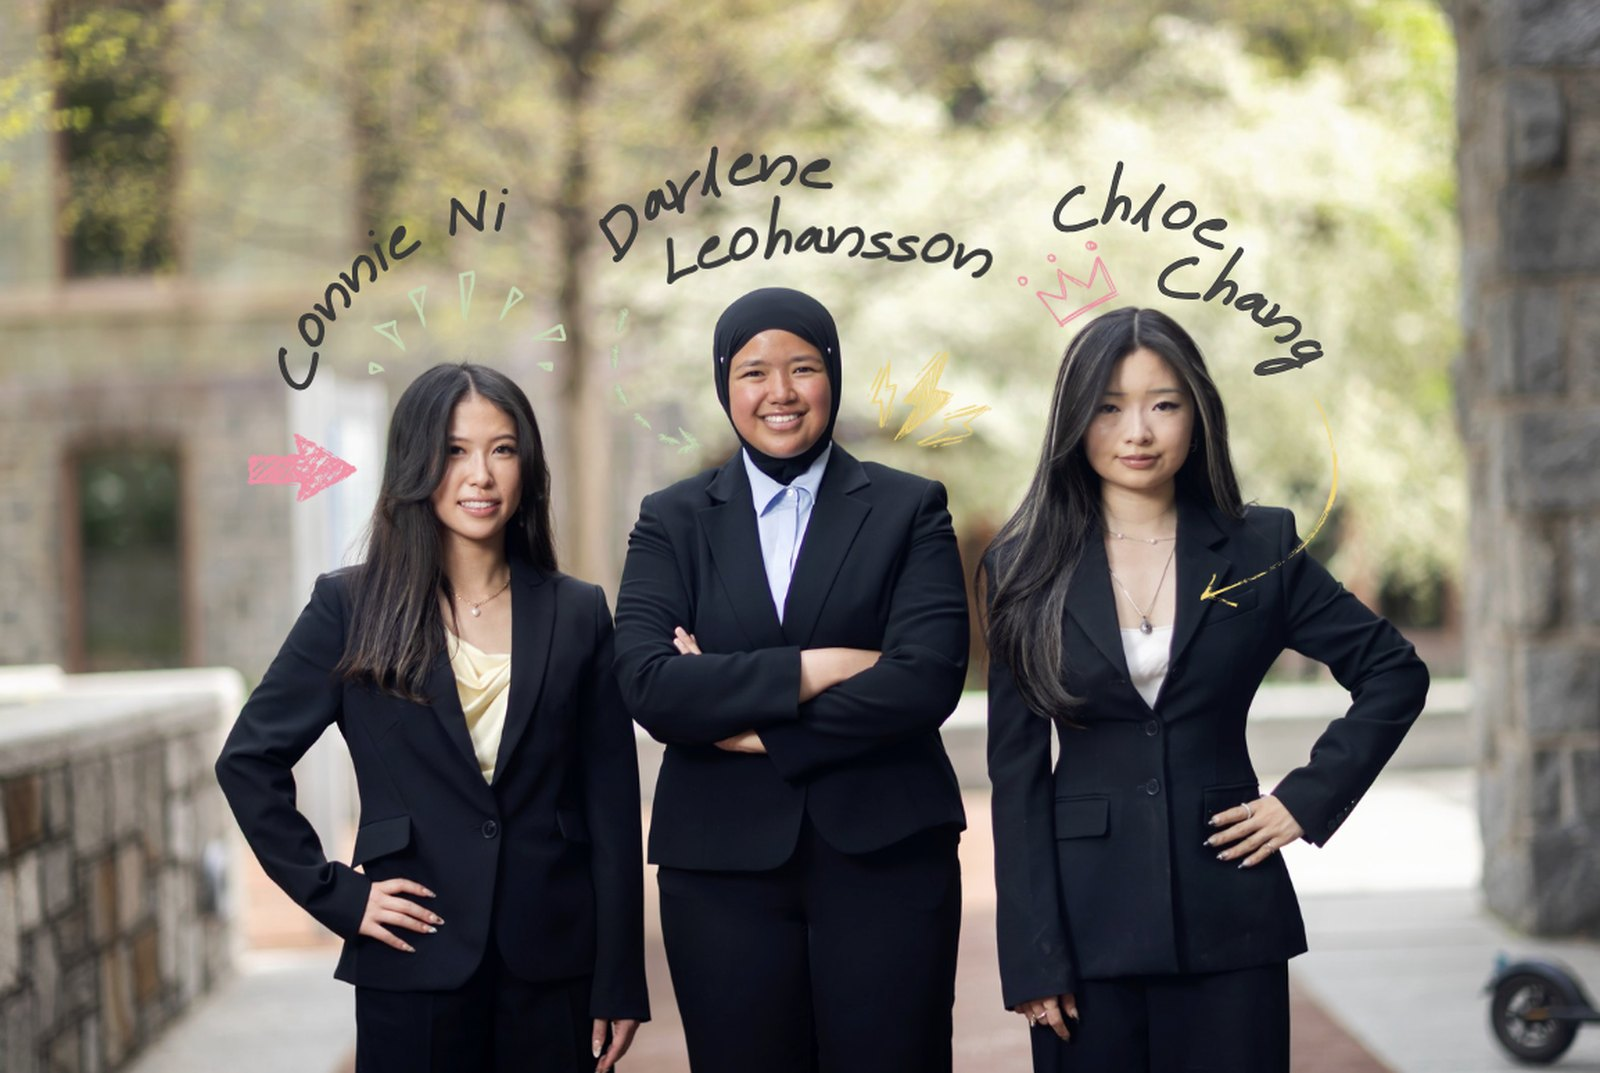
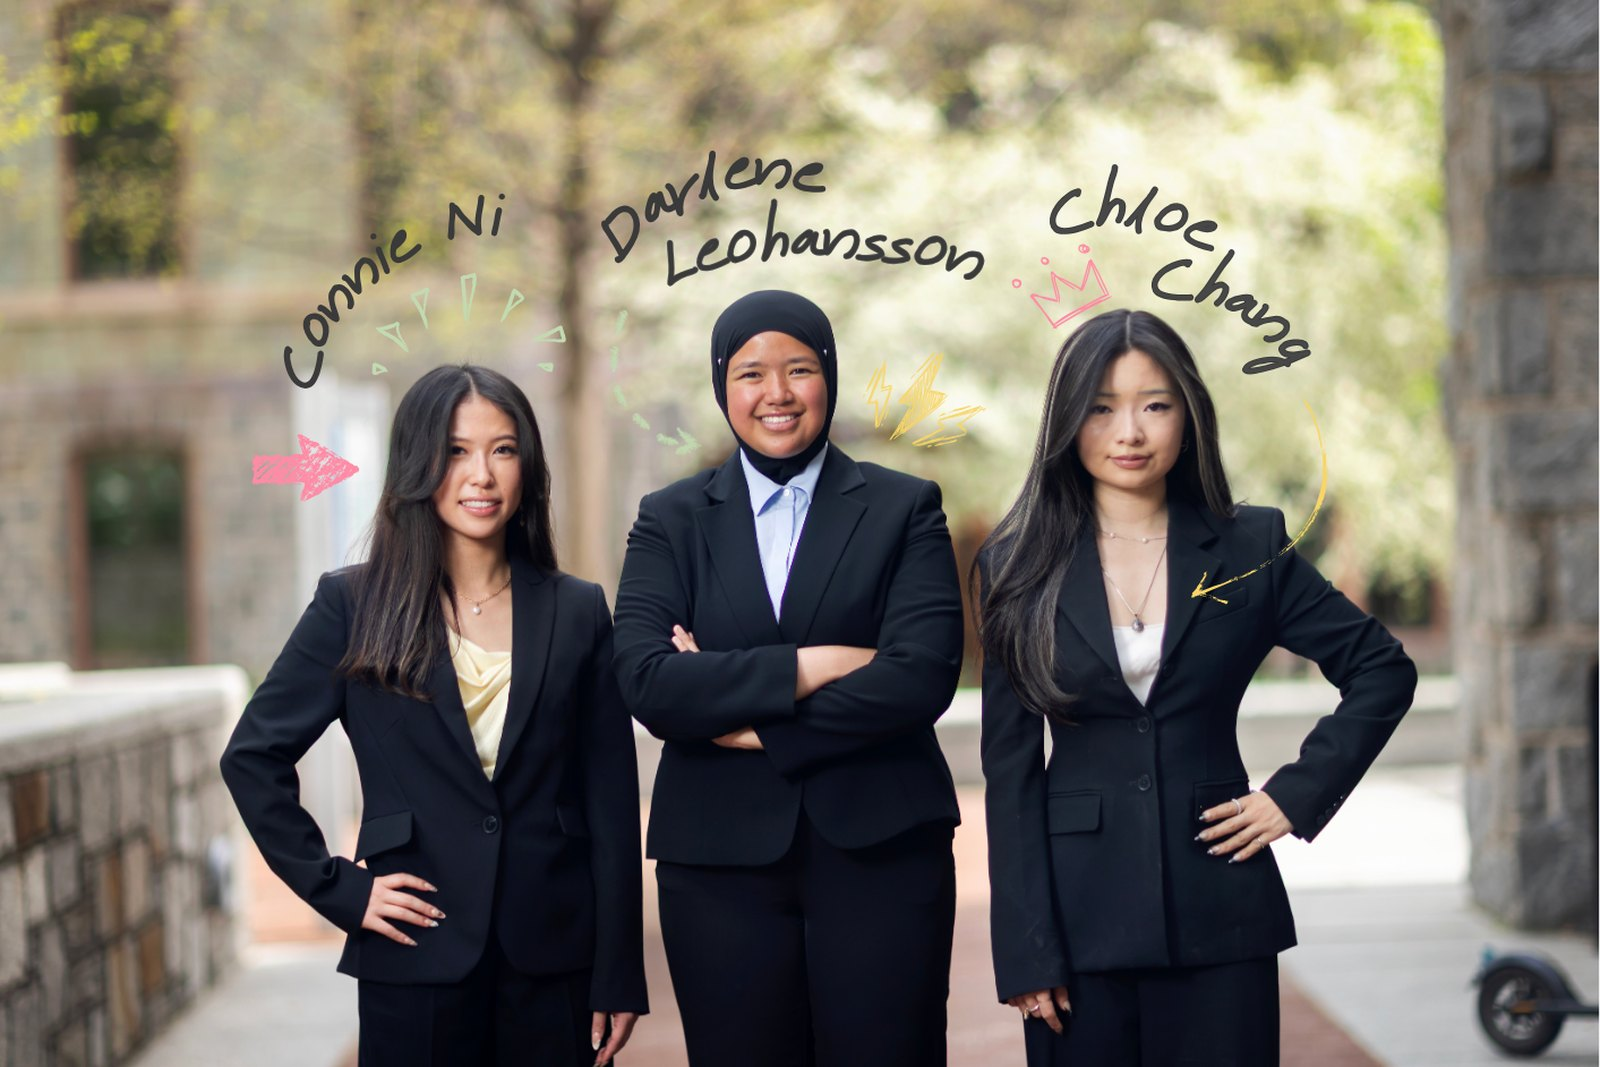
New team photo trimmed to the frame; caption bigger and centred on top

diff --git a/site.css b/site.css
@@ -1595,18 +1595,20 @@ select:focus-visible {
   border-radius: 2px;
   box-shadow: var(--shadow-crayon);
 }
-/* a last narration box, laid over the photo like the ones in the strip.
-   Sits low-left, clear of the handwritten names across the top. */
+/* a last narration box, laid over the photo like the ones in the strip —
+   centred across the top, the way a strip opens a scene */
 .team-photo__caption {
   position: absolute;
-  left: var(--space-5);
-  bottom: var(--space-5);
-  max-width: min(60%, 30ch);
+  top: var(--space-5);
+  left: 50%;
+  transform: translateX(-50%);
+  max-width: 84%;
+  white-space: nowrap;
   background: var(--paper-cream);
-  border: 2.5px solid #1a1a18;
-  padding: 3px var(--space-3);
+  border: 3px solid #1a1a18;
+  padding: 4px var(--space-5);
   font-family: var(--font-display);
-  font-size: var(--text-heading-md);
+  font-size: var(--text-display-md);
   color: var(--text-heading);
   line-height: 1.12;
 }
@@ -1745,6 +1747,12 @@ select:focus-visible {
   .day-card { padding: var(--space-4); }
   .card { padding: var(--space-4); }
   .card--lg { padding: var(--space-5); }
+  .team-photo__caption {
+    white-space: normal;
+    font-size: var(--text-heading-md);
+    padding: 3px var(--space-3);
+    text-align: center;
+  }
   .sheet .mission-line { font-size: clamp(1.6rem, 5vw, 2.2rem); }
   .mission-frame { padding: 26px; --dot-tile: 26px; --dot-r: 4.5px; }
   .mission-frame__inner { padding: var(--space-5); }
